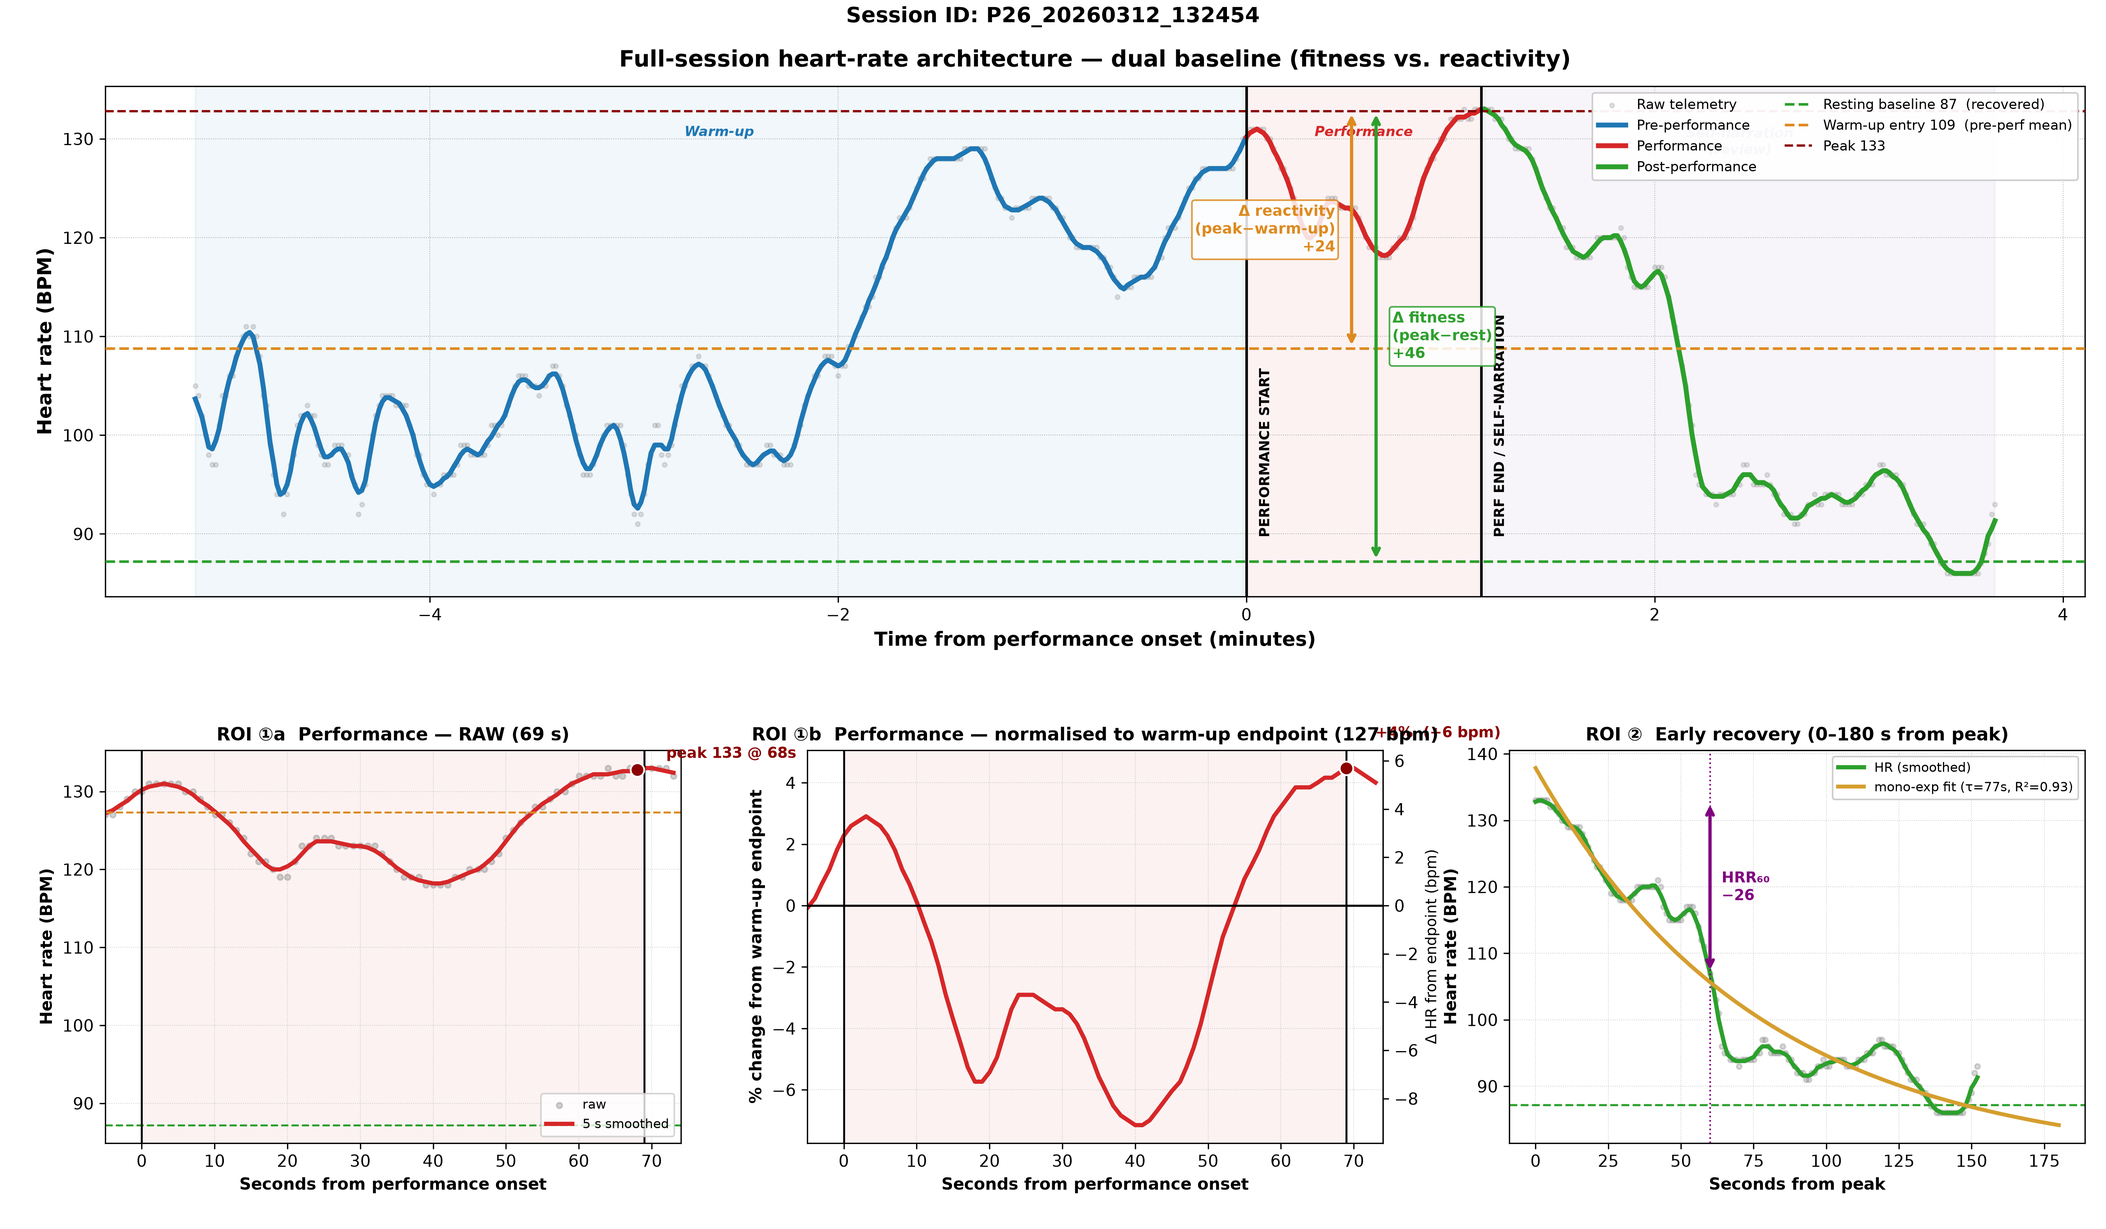
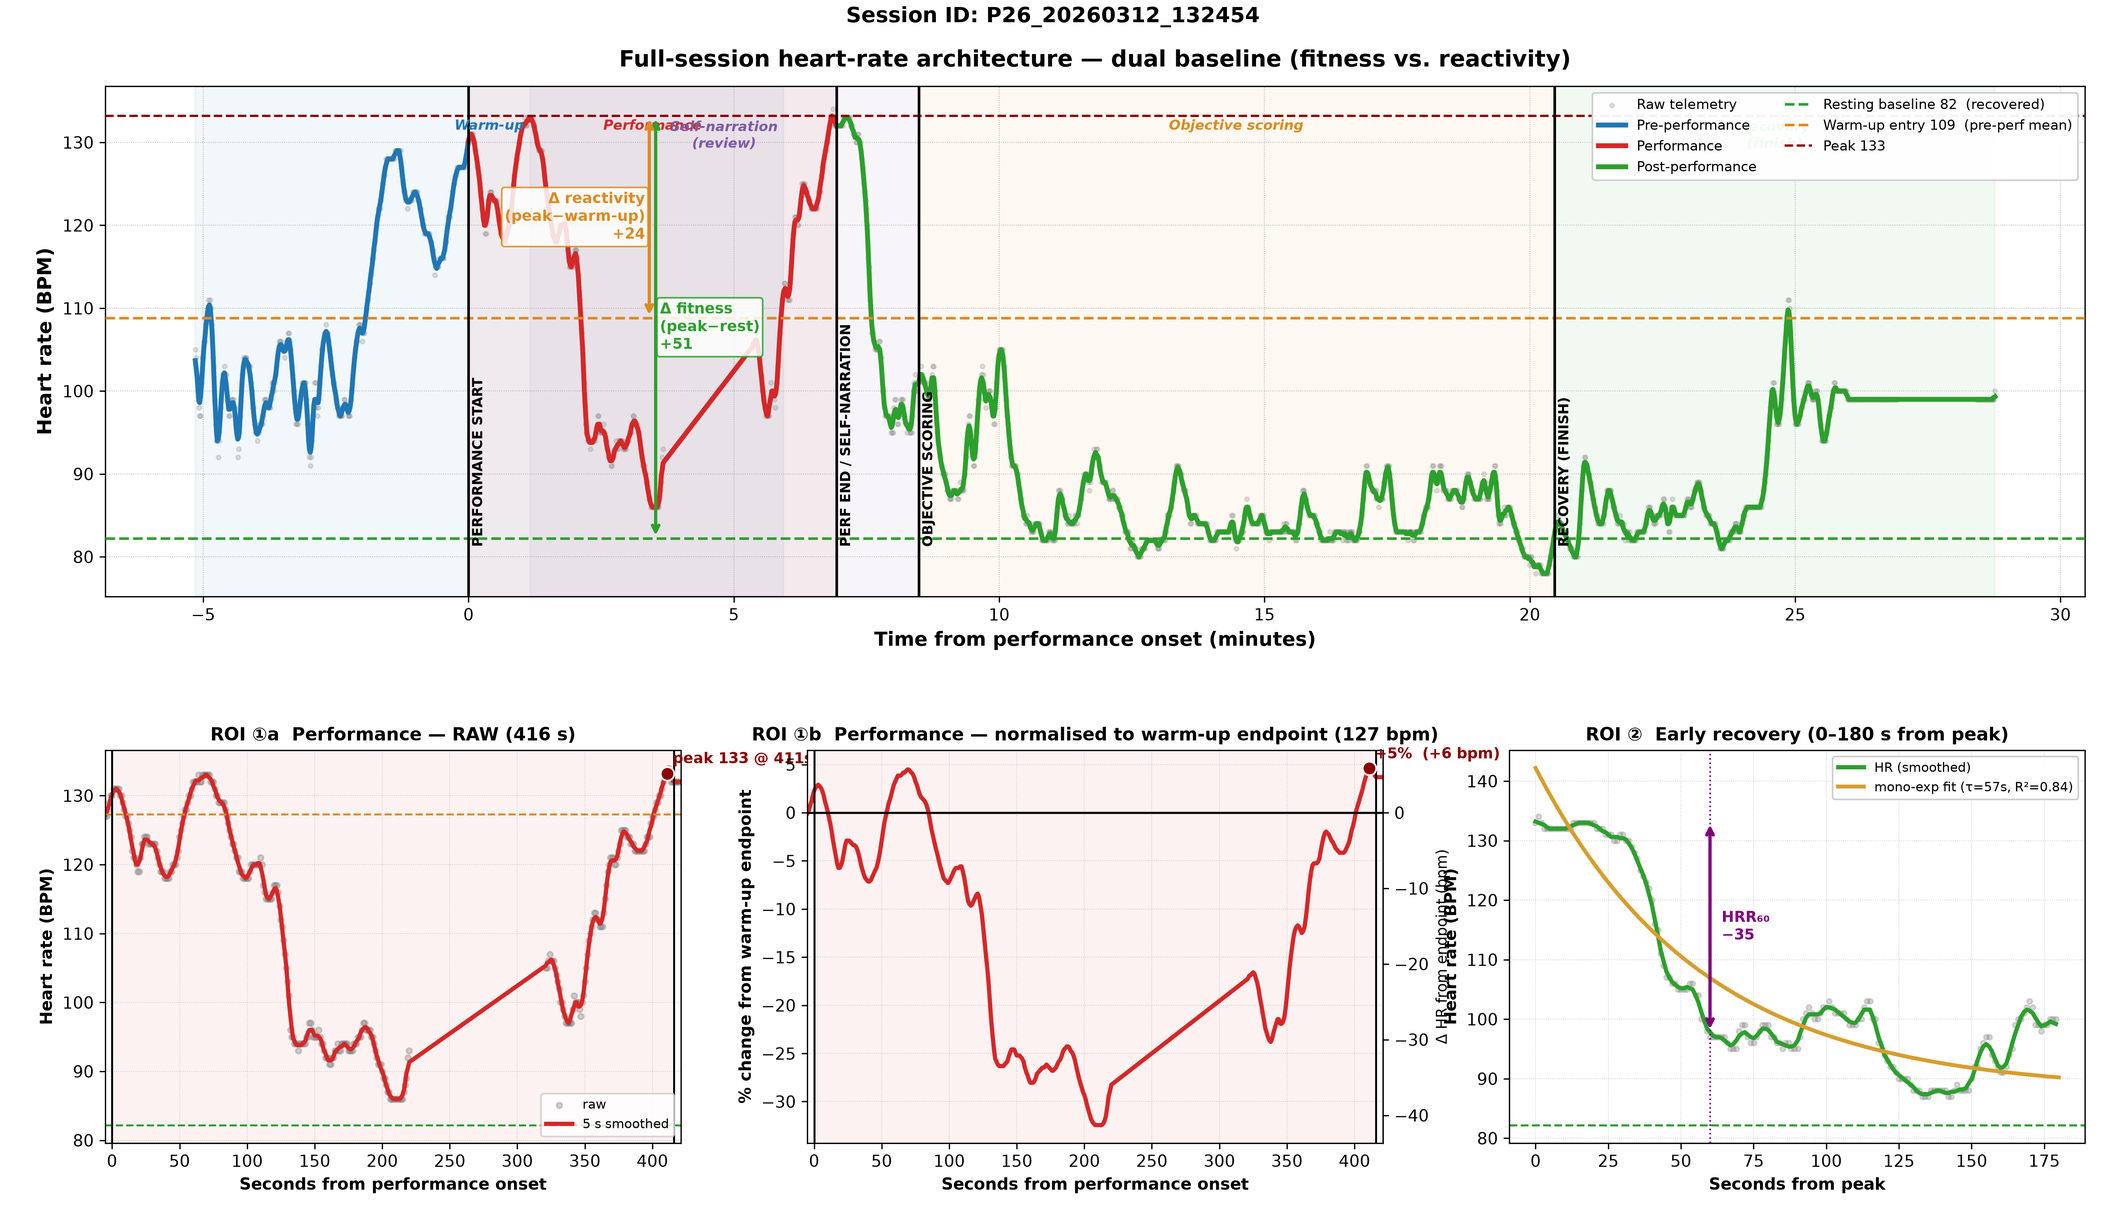
update on hr script and figures

diff --git a/Iris_Recorded_Taekwondo_Data/scripts/heart rate analysis flow study.py b/Iris_Recorded_Taekwondo_Data/scripts/heart rate analysis flow study.py
@@ -1,10 +1,11 @@
 """
 Full-session heart-rate analysis for the poomsae flow study.
 
-Version: 1.1
-Authors: Angela Czarina Mejia, Cam Hickling
+Version 1.2
+Date: 15-July-2026
+Authors: Angela Czarina Mejia and Cam Hickling
 
-What changed:
+WHAT CHANGED:
 ----------------------------------------
 1. The previous 'baseline' was the warm-up MEAN... an already-
    activated ENTRY state, not rest.  We compute TWO anchors and TWO deltas:
@@ -13,10 +14,10 @@ What changed:
        * warm-up entry level (pre-performance mean)
              -> delta_reactivity = peak - warm-up entry (reactivity conditioned on the warm-up)
 
-2. I've added vertical lines + labels demarcate SELF-NARRATION (review) and
-   OBJECTIVE-SCORING (scoring), in addition to performance start/end.
+2. I added vertical lines + labels to demarcate SELF-NARRATION (review) and
+   OBJECTIVE-SCORING (scoring), not just performance start/end.
 
-3. The PERFORMANCE ROI now shows RAW and NORMALISED (as per Baruch).  Two panels side by side:
+3. PERFORMANCE ROI... RAW and NORMALISED (as per Baruch).  Two panels side by side:
        (a) RAW BPM on a seconds axis (absolute values preserved), and
        (b) % CHANGE from the WARM-UP ENDPOINT (mean of the last ENTRY_ONSET_SEC of
            warm-up) so every athlete starts at ~0% and the SHAPES are comparable
@@ -24,7 +25,7 @@ What changed:
    A third panel shows the early-recovery ROI (HRR60 + optional tau).
 
 4. The crawl also emits a single figure overlaying every
-   participant's warm-up-endpoint-normalised performance curve on one axis... the
+   participant's warm-up-endpoint-normalised performance curve on one axis — the
    direct cross-participant pattern comparison the normalisation unlocks.
 
 5. The crawl writes an analysis-ready master CSV of per-session
@@ -67,9 +68,25 @@ ENTRY_ONSET_SEC    = 15        # warm-up ENDPOINT window (s): mean of last N s o
 HRR_SECONDS        = 60        # HRR window (s) after peak
 RECOVERY_FIT_MIN   = 5.0       # window (min) after peak for the mono-exponential fit
 MALIK_PCT          = 0.20      # NN artifact rule: drop beats differing >20% from the prior
+HR_MIN, HR_MAX     = 30, 220   # physiological gate on the BPM series (0-bpm dropouts etc.)
+MAX_INTERP_RUN     = 4         # repair runs of <=N bad samples; longer runs stay NaN (not invented)
+GATE_ON_CONTACT    = False     # sensor_contact=False is REPORTED but not auto-rejected.
+                               # Some sessions (e.g. P27B: 4093 flags) would lose most of their
+                               # data while still reporting plausible BPM - i.e. the flag's
+                               # reliability is unestablished. Inspect those sessions, then decide.
+PEAK_POST_LOOK_S   = 45.0      # ALSO report the max up to N s AFTER performance end (HR peaks late)
+PEAK_BOUNDARY_TOL_S = 5.0      # flag when the in-window peak sits this close to the window end
 PERF_ZOOM_PRE_S    = 5         # pre-onset context (s) shown in the performance panels
 PERF_ZOOM_POST_S   = 5         # post-end context (s) shown in the performance panels
 REC_ZOOM_S         = 180       # length (s) of the recovery zoom panel
+
+# Sessions to exclude from the analysis set (still on disk, just not analysed).
+# P02B/P10B = retries; P18B/P27B = freestyle. Not part of the pre-registered protocol.
+EXCLUDE_PARTICIPANTS = ['P02B', 'P10B', 'P18B', 'P27B']
+
+# A poomsae is typically ~40-90 s. A much longer labelled window usually means the
+# recording button was pressed late, not that the form took that long -> flag for video review.
+PLAUSIBLE_PERF_MAX_S = 120.0
 
 C_WARM, C_PERF, C_REVIEW, C_SCORE, C_FINISH = '#1f77b4', '#d62728', '#7d5ba6', '#dd8a1f', '#2ca02c'
 
@@ -89,16 +106,35 @@ def _phase_bounds_min(df, name):
 
 
 def _resting_baseline(df):
-    """Robust resting HR: lowest 30 s rolling mean of the recovered 'finish' phase."""
+    """Robust resting HR: lowest 30 s rolling mean of the recovered 'finish' phase.
+
+    NOTE: if the athlete removed the strap before the recorder was stopped, the tail of the
+    finish phase is dead signal - i.e. exactly the window this baseline depends on. So we
+    report how much VALID data the finish phase actually has, and flag it when thin. The
+    baseline is computed only from surviving samples (NaN-aware).
+    """
     rec = _phase(df, REST_PHASE)
+    used_fallback = False
     if rec.empty:
         tmax = df['rel_time_mins'].max()
         rec = df[df['rel_time_mins'] >= tmax - REST_FALLBACK_MIN]
-    if rec.empty:
-        return float(df['bpm'].min())
+        used_fallback = True
+    qc = {'n_finish_samples': int(len(rec)),
+          'n_finish_valid': int(rec['bpm'].notna().sum()) if len(rec) else 0,
+          'baseline_used_fallback_window': used_fallback}
+    qc['pct_finish_valid'] = round(100.0 * qc['n_finish_valid'] / max(qc['n_finish_samples'], 1), 1)
+    # thin recovery tail => the resting baseline (and therefore delta_fitness) is not trustworthy
+    qc['baseline_suspect'] = bool(qc['n_finish_valid'] < 60 or qc['pct_finish_valid'] < 50.0)
+
+    if not len(rec) or qc['n_finish_valid'] == 0:
+        return float(np.nanmin(df['bpm'])) if df['bpm'].notna().any() else np.nan, qc
     roll = rec.set_index('datetime')['bpm'].rolling('30s', min_periods=10, center=True).mean()
     val = roll.min()
-    return float(val) if np.isfinite(val) else float(rec['bpm'].quantile(0.05))
+    if not np.isfinite(val):
+        val = rec['bpm'].quantile(0.05)
+    if not np.isfinite(val):
+        val = np.nanmin(rec['bpm'])
+    return float(val), qc
 
 
 def _hrv_timedomain(df, phase_name):
@@ -119,6 +155,74 @@ def _hrv_timedomain(df, phase_name):
     return {'rmssd_ms': float(np.sqrt(np.mean(d ** 2))), 'sdnn_ms': float(np.std(nn, ddof=1)),
             'mean_hr': float(60000.0 / nn.mean()), 'n_beats': int(rr.size),
             'pct_flagged': float(100.0 * (~keep).mean())}
+
+
+def _load_session_parts(paths):
+    """Load one session, concatenating multi-part files (e.g. *_1of2.csv, *_2of2.csv).
+    Sorted by filename so 1of2 precedes 2of2, then re-sorted by timestamp and de-duplicated
+    at the seam."""
+    frames = [pd.read_csv(p) for p in sorted(paths)]
+    df = pd.concat(frames, ignore_index=True)
+    df['datetime'] = pd.to_datetime(df['timestamp'], unit='s')
+    df = df.sort_values('datetime').reset_index(drop=True)
+    n0 = len(df)
+    df = df.drop_duplicates(subset='timestamp', keep='first').reset_index(drop=True)
+    qc = {'n_file_parts': len(paths), 'n_duplicate_samples_dropped': n0 - len(df)}
+    if len(paths) > 1:
+        gaps = np.diff(df['timestamp'].values)
+        qc['max_seam_gap_s'] = round(float(gaps.max()), 1) if len(gaps) else 0.0
+    return df, qc
+
+
+def _gate_bpm(df):
+    """Reject non-biological BPM (0-dropouts, outside HR_MIN..HR_MAX) BEFORE smoothing.
+    Short gaps are repaired by interpolation; runs longer than MAX_INTERP_RUN are left as
+    NaN rather than invented. Returns (df, qc_dict)."""
+    bad = (df['bpm'] < HR_MIN) | (df['bpm'] > HR_MAX)
+    n_bad = int(bad.sum())
+    qc = {'n_nonbiological_bpm': n_bad,
+          'pct_nonbiological_bpm': round(100.0 * n_bad / max(len(df), 1), 2),
+          'n_zero_bpm': int((df['bpm'] == 0).sum())}
+    if 'sensor_contact' in df.columns:
+        try:
+            contact_bad = ~df['sensor_contact'].astype(bool)
+            qc['n_contact_false'] = int(contact_bad.sum())
+            if GATE_ON_CONTACT:
+                bad = bad | contact_bad
+        except Exception:
+            pass
+    if n_bad == 0 and not bad.any():
+        qc['longest_bad_run_s'] = 0
+        return df, qc
+
+    # longest consecutive bad run (in samples ~= seconds at 1 Hz)
+    runs, run = [], 0
+    for v in bad.values:
+        run = run + 1 if v else 0
+        runs.append(run)
+    qc['longest_bad_run_s'] = int(max(runs)) if runs else 0
+
+    if 'phase' in df.columns and bad.any():
+        qc['dropout_phases'] = '|'.join(sorted(df.loc[bad, 'phase'].astype(str).unique()))
+        # Validity of the RECOVERY tail, measured against the ORIGINAL sample count.
+        # This must happen here: dead rows are dropped later, so counting survivors
+        # against survivors would always look ~100% clean.
+        fin_mask = df['phase'].astype(str).str.lower() == REST_PHASE
+        n_fin = int(fin_mask.sum())
+        if n_fin:
+            n_fin_bad = int((bad & fin_mask).sum())
+            qc['n_finish_original'] = n_fin
+            qc['n_finish_valid_orig'] = n_fin - n_fin_bad
+            qc['pct_finish_valid_orig'] = round(100.0 * (n_fin - n_fin_bad) / n_fin, 1)
+            # strap removed before the recorder stopped => the resting baseline is built
+            # on whatever survived, which may still be elevated
+            qc['baseline_suspect'] = bool(qc['n_finish_valid_orig'] < 60
+                                          or qc['pct_finish_valid_orig'] < 50.0)
+    df = df.copy()
+    df.loc[bad, 'bpm'] = np.nan
+    # interpolate only short gaps; longer dropouts remain NaN and are excluded downstream
+    df['bpm'] = df['bpm'].interpolate(limit=MAX_INTERP_RUN, limit_area='inside')
+    return df, qc
 
 
 def _mono(t, hr_rest, amp, tau):
@@ -145,7 +249,7 @@ def _perf_norm_curves(df, m, pre_pad_s=0.0, post_pad_s=0.0):
 def compute_session_metrics(df, perf_duration_min):
     perf_dur_s = perf_duration_min * 60.0
 
-    baseline_rest = _resting_baseline(df)
+    baseline_rest, baseline_qc = _resting_baseline(df)
 
     pre = df[df['rel_time_mins'] < 0]
     entry_warmup = float(pre['bpm'].mean()) if not pre.empty else np.nan
@@ -159,6 +263,15 @@ def compute_session_metrics(df, perf_duration_min):
     peak_raw = float(perf_win['bpm'].max())
     peak_time_min = float(perf_win.loc[perf_win['bpm_smoothed'].idxmax(), 'rel_time_mins'])
     time_to_peak_s = peak_time_min * 60.0
+
+    # HR commonly peaks AFTER exercise stops; also look past the window so we can SEE
+    # whether the labelled window truncated the true peak (does not change the DV).
+    look = df[(df['rel_time_mins'] >= 0) &
+              (df['rel_time_mins'] <= perf_duration_min + PEAK_POST_LOOK_S / 60.0)]
+    peak_ext = float(look['bpm_smoothed'].max()) if len(look) else peak_hr
+    t_peak_ext_s = float(look.loc[look['bpm_smoothed'].idxmax(), 'rel_time_mins']) * 60.0 if len(look) else time_to_peak_s
+    peak_at_boundary = (perf_dur_s - time_to_peak_s) <= PEAK_BOUNDARY_TOL_S
+    peak_outside = t_peak_ext_s > perf_dur_s
 
     delta_fitness = peak_hr - baseline_rest
     delta_reactivity = peak_hr - entry_warmup
@@ -210,6 +323,13 @@ def compute_session_metrics(df, perf_duration_min):
         'perf_aucg_bpm_s': round(aucg, 0) if np.isfinite(aucg) else np.nan,
         'perf_auci_bpm_s': round(auci, 0) if np.isfinite(auci) else np.nan,
         'perf_duration_s': round(perf_dur_s, 1),
+        'perf_duration_implausible': bool(perf_dur_s > PLAUSIBLE_PERF_MAX_S),
+        # --- peak-clipping diagnostics (QC, not DVs) ---
+        'peak_extended_bpm': round(peak_ext, 1),
+        't_peak_extended_s': round(t_peak_ext_s, 1),
+        'peak_at_boundary': bool(peak_at_boundary),
+        'true_peak_outside_window': bool(peak_outside),
+        'peak_bpm_lost_by_clipping': round(peak_ext - peak_hr, 1),
     }
     for tag, ph in [('warmup', 'warmup_calibration'), ('finish', REST_PHASE)]:
         h = _hrv_timedomain(df, ph)
@@ -218,6 +338,11 @@ def compute_session_metrics(df, perf_duration_min):
             metrics[f'sdnn_{tag}_ms'] = round(h['sdnn_ms'], 1)
             metrics[f'pct_rr_flagged_{tag}'] = round(h['pct_flagged'], 2)
 
+    # NOTE: baseline_qc is computed post-gating, so its pct_finish_valid counts survivors
+    # only. The authoritative flag is set in _gate_bpm against the original rows; don't
+    # let this clobber it.
+    baseline_qc.pop('baseline_suspect', None)
+    metrics.update(baseline_qc)
     metrics['_peak_time_min'] = peak_time_min
     if tau_fit is not None:
         metrics['_tau_fit'] = tau_fit
@@ -446,16 +571,24 @@ def _parse_ids(file_path, root_directory):
     return experiment_id, participant_id
 
 
-def process_single_session(file_path, desktop_folder, root_directory=None, curve_accumulator=None,
+def process_single_session(file_paths, desktop_folder, root_directory=None, curve_accumulator=None,
                            output_image_name='session_hr_analysis.png'):
+    if isinstance(file_paths, str):
+        file_paths = [file_paths]
+    file_path = sorted(file_paths)[0]
     if root_directory is None:
         root_directory = os.path.dirname(os.path.dirname(os.path.dirname(file_path)))
     experiment_id, participant_id = _parse_ids(file_path, root_directory)
-    print(f"  Processing Session: {experiment_id}  (participant {participant_id})")
 
-    df = pd.read_csv(file_path)
-    df['datetime'] = pd.to_datetime(df['timestamp'], unit='s')
-    df = df.sort_values('datetime').reset_index(drop=True)
+    if participant_id in EXCLUDE_PARTICIPANTS:
+        print(f"  [SKIP] {experiment_id} - {participant_id} is excluded "
+              f"(retry/freestyle, not the pre-registered protocol)")
+        return None
+
+    part_note = f"  [{len(file_paths)} parts]" if len(file_paths) > 1 else ""
+    print(f"  Processing Session: {experiment_id}  (participant {participant_id}){part_note}")
+
+    df, part_qc = _load_session_parts(file_paths)
 
     perf_data = _phase(df, 'performance')
     if perf_data.empty:
@@ -465,6 +598,14 @@ def process_single_session(file_path, desktop_folder, root_directory=None, curve
     df['rel_time_mins'] = (df['datetime'] - perf_start).dt.total_seconds() / 60.0
     perf_duration_min = (perf_end - perf_start).total_seconds() / 60.0
 
+    # GATE non-biological samples BEFORE smoothing (0-bpm dropouts would drag the mean down)
+    df, qc = _gate_bpm(df)
+    if qc['n_nonbiological_bpm']:
+        where = qc.get('dropout_phases', '?')
+        print(f"    [QC] {qc['n_nonbiological_bpm']} non-biological BPM sample(s) "
+              f"({qc['pct_nonbiological_bpm']}%), longest run {qc['longest_bad_run_s']}s "
+              f"in [{where}] -> gated")
+
     df = df.set_index('datetime')
     df['bpm_smoothed'] = df['bpm'].rolling(window=SMOOTHING_WINDOW, center=True, min_periods=1).mean()
     df = df.reset_index().dropna(subset=['bpm_smoothed'])
@@ -472,6 +613,8 @@ def process_single_session(file_path, desktop_folder, root_directory=None, curve
         return None
 
     m = compute_session_metrics(df, perf_duration_min)
+    m.update(qc)          # gate QC (incl. authoritative baseline_suspect) wins
+    m.update(part_qc)
 
     # figure: full session on top; performance RAW | performance %CHANGE | recovery below
     fig = plt.figure(figsize=(18, 10.5))
@@ -495,6 +638,13 @@ def process_single_session(file_path, desktop_folder, root_directory=None, curve
     shutil.copy2(local_output_path, os.path.join(desktop_folder, f"{experiment_id}_responsive_analysis.png"))
     # NOTE: console output is deliberately plain ASCII (Windows consoles are often cp1252
     # and raise UnicodeEncodeError on characters like the delta sign when redirected).
+    if m.get('baseline_suspect'):
+        print(f"    [WARN] recovery tail only {m.get('pct_finish_valid_orig')}% valid "
+              f"({m.get('n_finish_valid_orig')}s of {m.get('n_finish_original')}s) -> strap likely "
+              f"removed before recorder stopped; resting baseline and delta_fitness NOT trustworthy")
+    if m.get('perf_duration_implausible'):
+        print(f"    [WARN] performance window {m['perf_duration_s']:.0f}s > {PLAUSIBLE_PERF_MAX_S:.0f}s "
+              f"-> recorder likely stopped late; verify true poomsae duration on video")
     print(f"    -> Exported figure. d_fit=+{m['delta_fitness_bpm']:.0f} | d_react=+{m['delta_reactivity_bpm']:.0f} | "
           f"peak%={m['peak_pct_change_from_entry']:.0f}% | t-to-peak={m['time_to_peak_s']:.0f}s | HRR60={m['hrr60_bpm']}")
 
@@ -524,17 +674,23 @@ def crawl_and_render_all(root_directory, target_pattern,
     print(f"\nSweeping: {root_directory}\n" + "=" * 60)
     processed, rows, curves = 0, [], []
     for dirpath, _, filenames in os.walk(root_directory):
-        # pattern match so renamed files (e.g. 'P05_hr_full_session.csv') are still found
-        for fname in sorted(fnmatch.filter(filenames, target_pattern)):
-            full_csv_path = os.path.join(dirpath, fname)
-            try:
-                m = process_single_session(full_csv_path, desktop_path,
-                                           root_directory=root_directory, curve_accumulator=curves)
-                if m is not None:
-                    rows.append(m)
-                    processed += 1
-            except Exception as e:
-                print(f"    [ERROR] {full_csv_path}: {e}")
+        # pattern match so renamed ('P05_hr_full_session.csv') AND split
+        # ('P20_hr_full_session_1of2.csv') files are found
+        matched = sorted(fnmatch.filter(filenames, target_pattern))
+        # exclude the ECG stream if the pattern is broad
+        matched = [f for f in matched if 'ecg' not in f.lower()]
+        if not matched:
+            continue
+        paths = [os.path.join(dirpath, f) for f in matched]
+        try:
+            # all parts in one directory belong to the same session
+            m = process_single_session(paths, desktop_path,
+                                       root_directory=root_directory, curve_accumulator=curves)
+            if m is not None:
+                rows.append(m)
+                processed += 1
+        except Exception as e:
+            print(f"    [ERROR] {dirpath}: {e}")
 
     if rows:
         metrics_df = pd.DataFrame(rows).sort_values('participant_id').reset_index(drop=True)
@@ -603,10 +759,13 @@ if __name__ == "__main__":
     # Leave TARGET_ROOT_DIR = None to auto-detect (script lives in <data root>/scripts/),
     # or hard-code a path, e.g. r"C:\Users\BarlabPRIME\Desktop\FlowAnalytics\Iris_Recorded_Taekwondo_Data"
     TARGET_ROOT_DIR = None
-    # glob pattern, so both 'hr_full_session.csv' and 'P05_hr_full_session.csv' match
-    TARGET_FILE_PATTERN = "*hr_full_session.csv"
+    # glob pattern: matches 'hr_full_session.csv', 'P05_hr_full_session.csv',
+    # and split files like 'P20_hr_full_session_1of2.csv' (parts are concatenated)
+    TARGET_FILE_PATTERN = "*hr_full_session*.csv"   # also matches *_1of2 / *_2of2 splits
 
     root = TARGET_ROOT_DIR or _default_root()
     print(f"Data root: {root}")
     print(f"Matching:  {TARGET_FILE_PATTERN}")
     crawl_and_render_all(root, TARGET_FILE_PATTERN)
+
+
